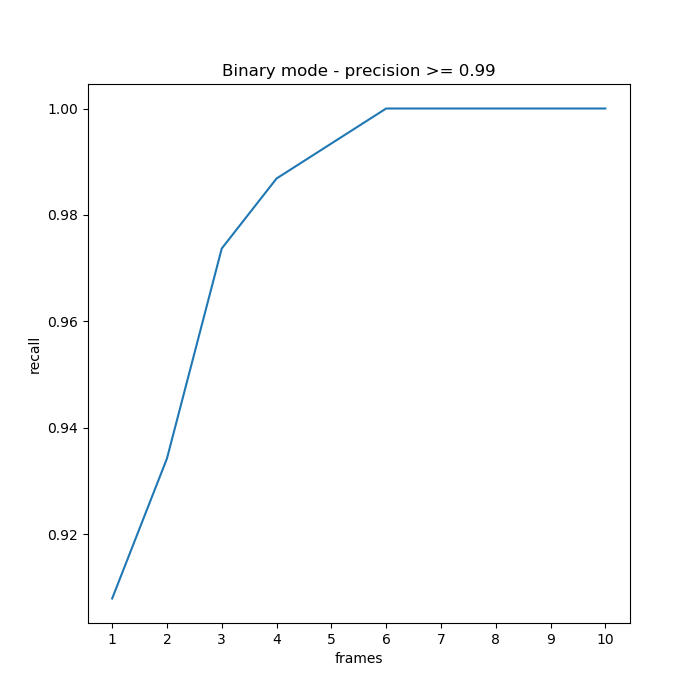
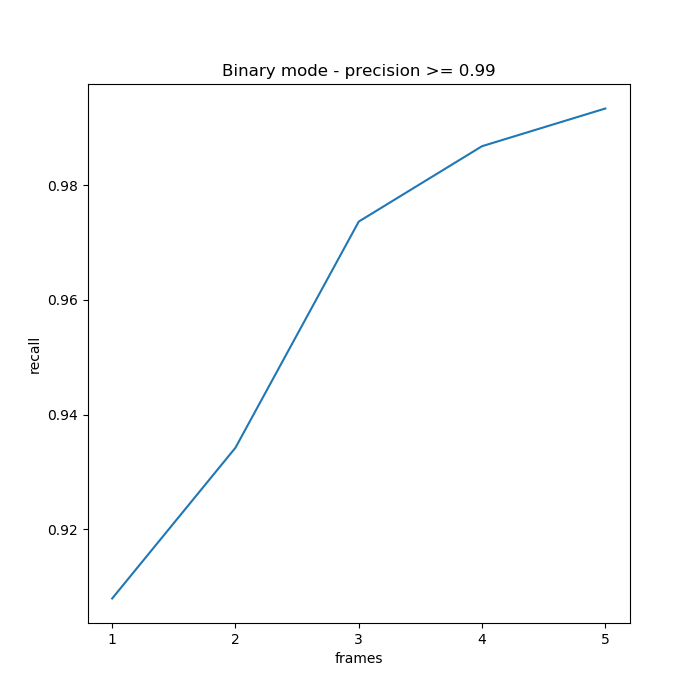
Table and conclusion of results

diff --git a/whitepaper/content/face-auth.tex b/whitepaper/content/face-auth.tex
@@ -352,8 +352,10 @@
         using only one frame. We have evaluated several single-frame models to
         choose one multi-class and one binary classifier.
         \subsubsection{Multi-class}
+        \begin{table}[H]
         \begin{center}
         \small
+        \caption{Selected models performance in multi-class mode}
         \begin{tabular}{ |c|c|c|c|c| }
             \hline
             Model & Entropy maps & HOGs & CNN inputs & Accuracy\\
@@ -378,17 +380,20 @@
             \hline
         \end{tabular}
         \end{center}
+        \end{table}
 
         \subsubsection{Binary}
+        \begin{table}[H]
         \begin{center}
         \small
+        \caption{Selected models performance in binary mode}
         \begin{tabular}{ |c|c|c|c|c|c| }
             \hline
             Model & Entropy maps & HOGs & CNN input & Precision & Recall\\
         \hline
         CNN 1 : 5 SVM & y & y & channels & 0.99 & 0.9079\\
-        & & & & 0.999 & 0.9079\\
-        & & & & 0.9999 & 0.9079\\
+        & & & & 0.999 & 0.9013\\
+        & & & & 0.9999 & 0.9013\\
         \hline
         SVM & n & y & - & 0.99 & 0.8947 \\
         & & & & 0.999 & 0.8947\\
@@ -405,6 +410,7 @@
 
         \end{tabular}
         \end{center}
+        \end{table}
 
     \subsection{Multiple frames based classification}
     We have chosen CNN as multi-class classifier and CNN ensembled with SVM (CNN 1 : 5 SVM) as
@@ -457,34 +463,79 @@
 
     \subsubsection{Results -- multi-class}
 
+    \begin{table}[H]
+      \begin{center}
+      \small
+      \caption{Accuracy obtained by multi-frame based classification with CNN}
+      \begin{tabular}{ |c|c| }
+      \hline
+      Frames & Accuracy\\
+      \hline
+      1 & 0.9721\\
+      \hline
+      2 & 0.9794\\
+      \hline
+      3 & 0.9871\\
+      \hline
+      4 & 0.9871\\
+      \hline
+      5 & 0.9879\\
+      \hline
+      6 & 0.9896\\
+      \hline
+      7 & 0.9905\\
+      \hline
+      8 & 0.9922\\
+      \hline
+      9 & 0.9931\\
+      \hline
+      10 & 0.9940\\
+      \hline
+      \end{tabular}
+      \end{center}
+    \end{table}
+
+    \subsubsection{Results -- binary}
+    \begin{table}[H]
     \begin{center}
     \small
-        \begin{tabular}{ |c|c| }
+    \caption{Recall obtained by multi-frame based classification with CNN 1 : 5 SVM}
+    \begin{tabular}{ |c|c|c| }
         \hline
-        frames & accuracy\\
-        \hline
-        1 & 0.9721\\
-        \hline
-        2 & 0.9794\\
-        \hline
-        3 & 0.9871\\
-        \hline
-        4 & 0.9871\\
-        \hline
-        5 & 0.9879\\
-        \hline
-        6 & 0.9896\\
-        \hline
-        7 & 0.9905\\
-        \hline
-        8 & 0.9922\\
-        \hline
-        9 & 0.9931\\
-        \hline
-        10 & 0.9940\\
-        \hline
-        \end{tabular}
-    \end{center}
+        Frames & Precision & Recall\\
+    \hline
+    1 & 0.99 & 0.9079\\
+    & 0.999 & 0.9013\\
+    & 0.9999 & 0.9013\\
+    \hline
+    2 & 0.99 & 0.9342\\
+    & 0.999 & 0.9342\\
+    & 0.9999 & 0.9342\\
+    \hline
+    3 & 0.99 & 0.9736\\
+    & 0.999 & 0.9605\\
+    & 0.9999 & 0.9605\\
+    \hline
+    4 & 0.99 & 0.9868\\
+    & 0.999 & 0.9868\\
+    & 0.9999 & 0.9868\\
+    \hline
+    5 & 0.99 & 0.9934\\
+    & 0.999 & 0.9934\\
+    & 0.9999 & 0.9934\\
+    \hline
 
+    \end{tabular}
+    \end{center}
+    \end{table}
 
     \subsection{Proposed solution}
+    The solution we propose is a voting ensembling CNN 1 : 5 SVM, with
+    classification based on $4$ consecutive frames. We believe that $400$ miliseconds
+    is an acceptable authentication time. Using $4$ frames, precision rate $0.9999$
+    and recall rate $0.9868$ are achievable.
+
+    In other words, our solution will fail to protect users resources or device
+    only once in $10\ 000$ cases. Out of $10\ 000$ cases when the right owner
+    tries to access the device or resources, only $132$ times they will fail
+    to authorize.
